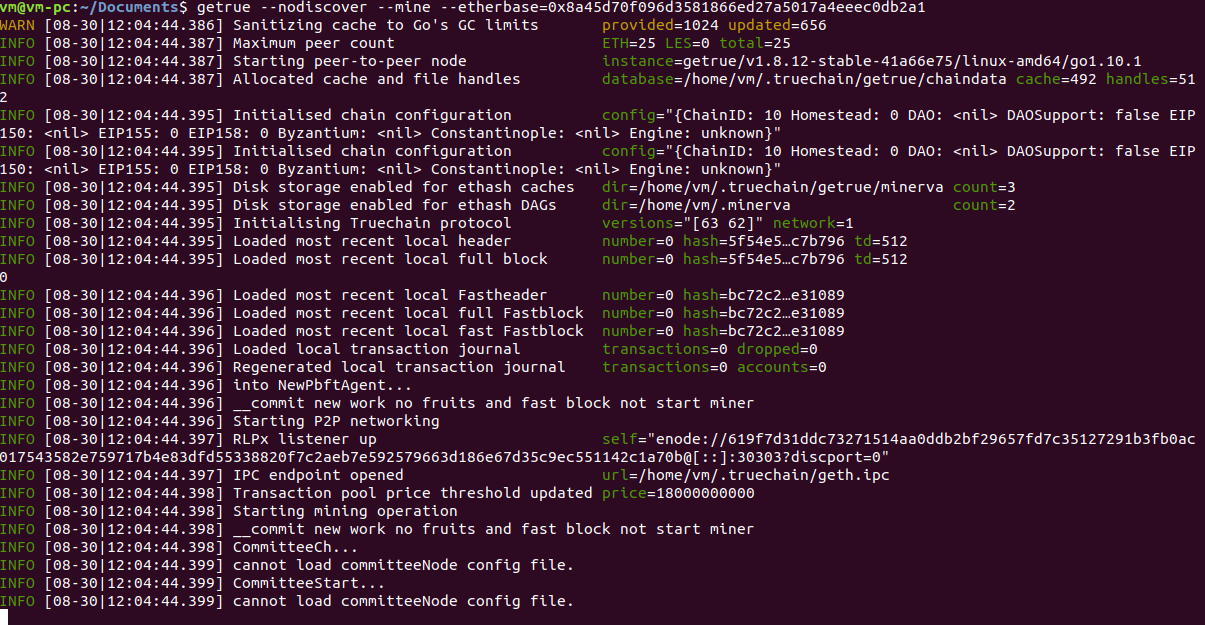
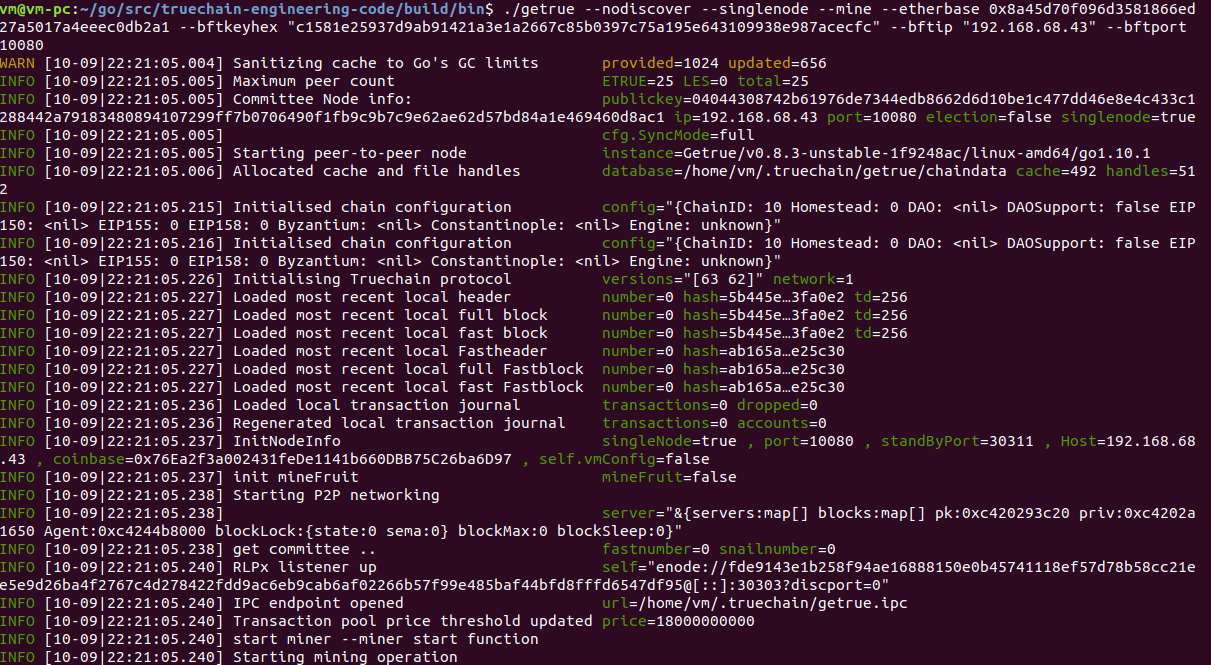
update 1.3.1 and 1.3.2

diff --git a/developer/1.3.2.ubuntu_env_build_ide.md b/developer/1.3.2.ubuntu_env_build_ide.md
@@ -167,17 +167,24 @@ func main() {
 ```
 {
   "config": {
-        "chainId": 10,
-        "homesteadBlock": 0,
-        "eip155Block": 0,
-        "eip158Block": 0
-    },
-  "alloc"      : {
-	  "0x970e8128ab834e8eac17ab8e3812f010678cf791" : { "balance" : 90000000000000000000000},
-	  "0x68f2517b6c597ede0ae7c0559cdd4a84fd08c928" : { "balance" : 10000000000000000000000}
-	  },
+    "chainId": 10,
+    "homesteadBlock": 0,
+    "eip155Block": 0,
+    "eip158Block": 0
+  },
+  "alloc":{
+    "0xbd54a6c8298a70e9636d0555a77ffa412abdd71a" : { "balance" : 90000000000000000000000},
+    "0x3c2e0a65a023465090aaedaa6ed2975aec9ef7f9" : { "balance" : 10000000000000000000000}
+  },
+  "committee":[
+    {
+      "address": "0x76ea2f3a002431fede1141b660dbb75c26ba6d97",
[1 lines of base64/hex data omitted]
+    }
+  ]
+,
   "coinbase"   : "0x0000000000000000000000000000000000000000",
-  "difficulty" : "0x200",
+  "difficulty" : "0x100",
   "extraData"  : "",
   "gasLimit"   : "0x2fefd8",
   "nonce"      : "0x0000000000000042",
@@ -191,7 +198,7 @@ func main() {
 
 继续修改“lanuch.json”的“args”参数为
 ```
-"args":["--nodiscover", "--mine", "--etherbase", "8a45d70f096d3581866ed27a5017a4eeec0db2a1"],
[1 lines of base64/hex data omitted]
 ```
 再F5就可以挖矿了。运行成功如下图，有时候可能不太一样：
 ![](img/Ubuntu_env_build_IDE_06.png)

diff --git a/developer/1.3.1.ubuntu_env_build.md b/developer/1.3.1.ubuntu_env_build.md
@@ -143,17 +143,24 @@ $ cp path/to/getrue $GOPATH/bin
 ```
 {
   "config": {
-        "chainId": 10,
-        "homesteadBlock": 0,
-        "eip155Block": 0,
-        "eip158Block": 0
-    },
-  "alloc"      : {
-	  "0x970e8128ab834e8eac17ab8e3812f010678cf791" : { "balance" : 90000000000000000000000},
-	  "0x68f2517b6c597ede0ae7c0559cdd4a84fd08c928" : { "balance" : 10000000000000000000000}
-	  },
+    "chainId": 10,
+    "homesteadBlock": 0,
+    "eip155Block": 0,
+    "eip158Block": 0
+  },
+  "alloc":{
+    "0xbd54a6c8298a70e9636d0555a77ffa412abdd71a" : { "balance" : 90000000000000000000000},
+    "0x3c2e0a65a023465090aaedaa6ed2975aec9ef7f9" : { "balance" : 10000000000000000000000}
+  },
+  "committee":[
+    {
+      "address": "0x76ea2f3a002431fede1141b660dbb75c26ba6d97",
[1 lines of base64/hex data omitted]
+    }
+  ]
+,
   "coinbase"   : "0x0000000000000000000000000000000000000000",
-  "difficulty" : "0x200",
+  "difficulty" : "0x100",
   "extraData"  : "",
   "gasLimit"   : "0x2fefd8",
   "nonce"      : "0x0000000000000042",
@@ -166,7 +173,7 @@ $ cp path/to/getrue $GOPATH/bin
 
 ```
 $ getrue init path/to/genesis.json
-$ getrue --nodiscover --mine --etherbase=0x8a45d70f096d3581866ed27a5017a4eeec0db2a1
[1 lines of base64/hex data omitted]
 ```
 初始化及运行成功，如下图
 
